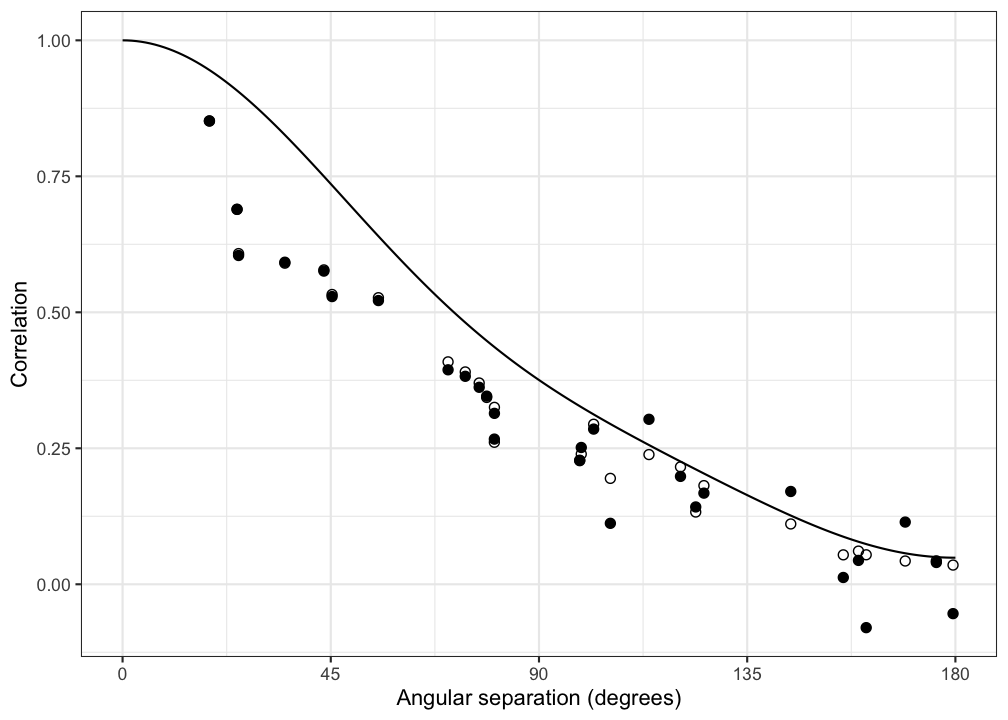
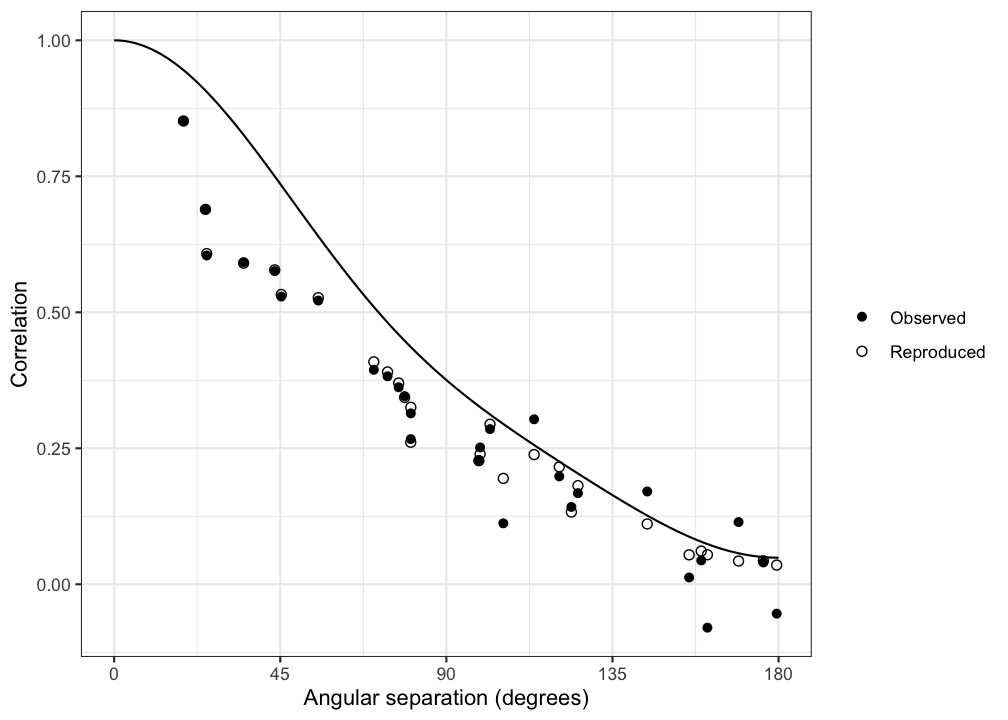
M140 review: fix-now findings from the three-lens review; vignette re-rendered

diff --git a/cairn/milestones/M140-vignette-latent-circumplex-figures.md b/cairn/milestones/M140-vignette-latent-circumplex-figures.md
@@ -67,6 +67,7 @@ Add a section to `advanced-visualization` that builds three figures from a `cpm_
 - 2026-09-20: T6 in progress. NEWS entry written; `devtools::document()` produced no diff; `pkgdown::check_pkgdown()` found no problems; `devtools::check(args = "--no-manual")` still running at this checkpoint (it built from the tree before the one-title fix, which changes prose only).
 - 2026-09-20: T6 done. `devtools::check(args = "--no-manual")`: Status: OK (0 errors, 0 warnings, 0 notes). All tasks checked; status set to review.
 - 2026-09-20: review checkpoint (partial). AC1 to AC5 and AC7 verified with fresh evidence and ticked. Consistency gate green apart from `devtools::check()`, still running. Three fresh-context reviewers running. AC6 and the gate presentation follow.
+- 2026-09-20: review fix-now work from the three-lens review landed (Heywood and NA-interval prose, PA fixed-angle consequence, eight sentence splits, signed residual, `Zeta` column, shape legend on the corfun figure, `pair_idx` rename, `ggcircumplex()` canvases, test guard). Vignette re-rendered. AC1 to AC5 and AC7 re-verified on the fixed tree. Findings and dispositions in the Review section. Full check re-running.
 
 ## Decisions
 
@@ -80,5 +81,23 @@ Fresh evidence on 2026-09-20, branch `m140-vignette-latent-circumplex-figures` a
 - AC4: verified. The section's four fences carry no `echo = FALSE` or `include = FALSE`. The purled run exited 0 with one warning (the ill-conditioned Hessian the prose names) and no error.
 - AC5: verified. All four phrases match verbatim in the rendered `.Rmd` after whitespace collapse. `test-vignette-latent-figures.R` passes 7 expectations with 0 failures.
 - AC7: verified. One entry under `# circumplex (development version)` names "The latent circumplex from a CPM fit". No `M1nn` token appears in NEWS.
+
+Independent review, 2026-09-20, three fresh-context lenses. Prior-review lens [S]: no prior-review evidence on the touched files (18 archives read, the PR-comment probe returned nothing), zero findings. Findings below are ranked as the reviewers ranked them, with the disposition taken at the gate.
+
+- O1 (diff-bug): the fit is a Heywood-type solution (`details$heywood` is TRUE, NO's `Zeta` is 1) and the four printed columns hide the note. Fix now: the prose names the boundary and the note, and points to the boundary page for both.
+- O2: PA's tick sits on its spoke because its angle is fixed, and the other ticks are read relative to it. Fix now: two sentences added.
+- O3: nine sentences over the 25-word prose rule on a page clean at the cut (`tools/prose-sweep.R` 0 to 9). Fix now for eight. The ninth is AC5 phrase (ii), 27 words by the criterion's own text, so it stays. Rejected for that one sentence.
+- O4: "that gap is part of the model, not a misfit" attributed the whole gap to attenuation. Fix now: "part of that gap is attenuation, not misfit".
+- O5: AC5 phrase (iii) "the points are observed correlations" reads as mislabelling the hollow points. Put to the user at the gate. Applied disposition: a sentence directly after the phrase says the hollow points are reproduced, not observed. The alternative is an amendment return rewording AC5(iii).
+- O6: the prose said the fit "uses analytic confidence intervals" while every interval is `NA`. Fix now: the prose says the intervals are not drawn and all come back `NA`.
+- O7: `tools/vignette-echo-sweep.R` flags five frame-building lines in the echoed chunks. Rejected with reason: AC4 forbids hidden chunks by the plan gate's choice, and the frames are the teaching content here. The sweep is not wired into CI or the test suite as a vignette gate.
+- O8 and S1 (history lens): the new `ssm_analyze()` call consumes RNG, so section 8's bootstrap intervals and two of its PNGs re-rendered with different draws. The proposed fix, a `set.seed()` at the occasions chunk, edits lines outside AC6's diff bound. Put to the user at the gate. Applied disposition: rejected. The introduction vignette teaches the seed-once semantics, and point estimates are unchanged.
+- O9: the prose sent readers to square roots of `Communality` when `Zeta` is that column. Fix now: the chunk prints `Zeta` and the prose names it.
+- O10: the two point sets in the corfun figure were indistinguishable. Fix now: a shape legend (Observed filled, Reproduced hollow). Figure re-rendered and read.
+- O11: the sentence said the warning caused the BLAS sensitivity. Fix now: reworded.
+- O12: "vertical distance" dropped the residual's sign. Fix now: "the filled point minus the hollow point".
+- O13 and S2: the no-hidden-chunk test reads the `.Rmd.orig` and skips under R CMD check, and a renamed heading errors in `min(integer(0))`. Fix now for the guard. Chunk options do not survive rendering, so the source-tree-only scope is the accepted category that `test-vignette-echo-sweep.R` established. Logged here as that classification.
+- O14: `pairs` shadowed `base::pairs`. Fix now: renamed `pair_idx`.
+- O15: AC1 says a `ggcircumplex()` canvas but the chunks composed the canvas from parts. Fix now: both canvases are `ggcircumplex(angles = cpm$results$Angle_theory, labels = PANO(), amax = )`, which the function accepts. The code now matches the criterion as written.
 
 Consistency gate, 2026-09-20. `cairn_validate.py` exit 0, all checks pass, no advisory fired. No DESIGN.md principle changed, so `cairn_impact.py` was skipped. `devtools::document()` at `cli.width = 500` printed no `resolve link` line and left no diff in `NAMESPACE`, `man/` or `R/RcppExports.R`. README is untouched by the branch. `pkgdown::check_pkgdown()` found no problems. NEWS carries the entry (AC7). Master watches: the newest push run of `R-CMD-check.yaml` and of `test-coverage.yaml` on master (`0c37cddb`, 2026-09-18) both concluded `success`. `check-master-red-alert.R`, `master-red-alert-dryrun.R` and `check-branch-protection.R` each exit 0.
